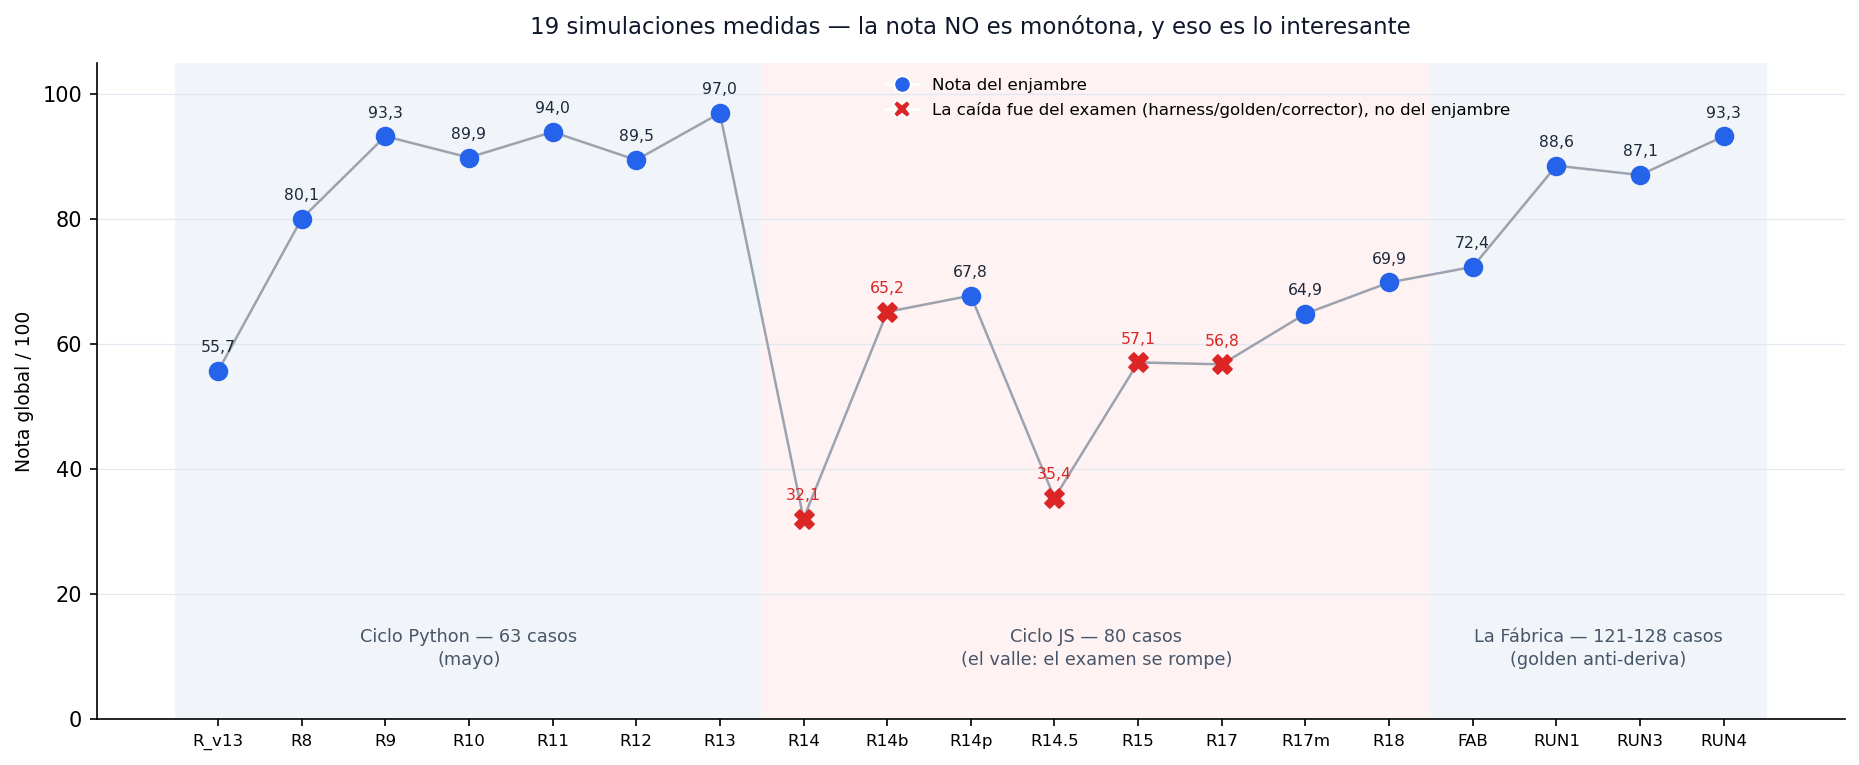
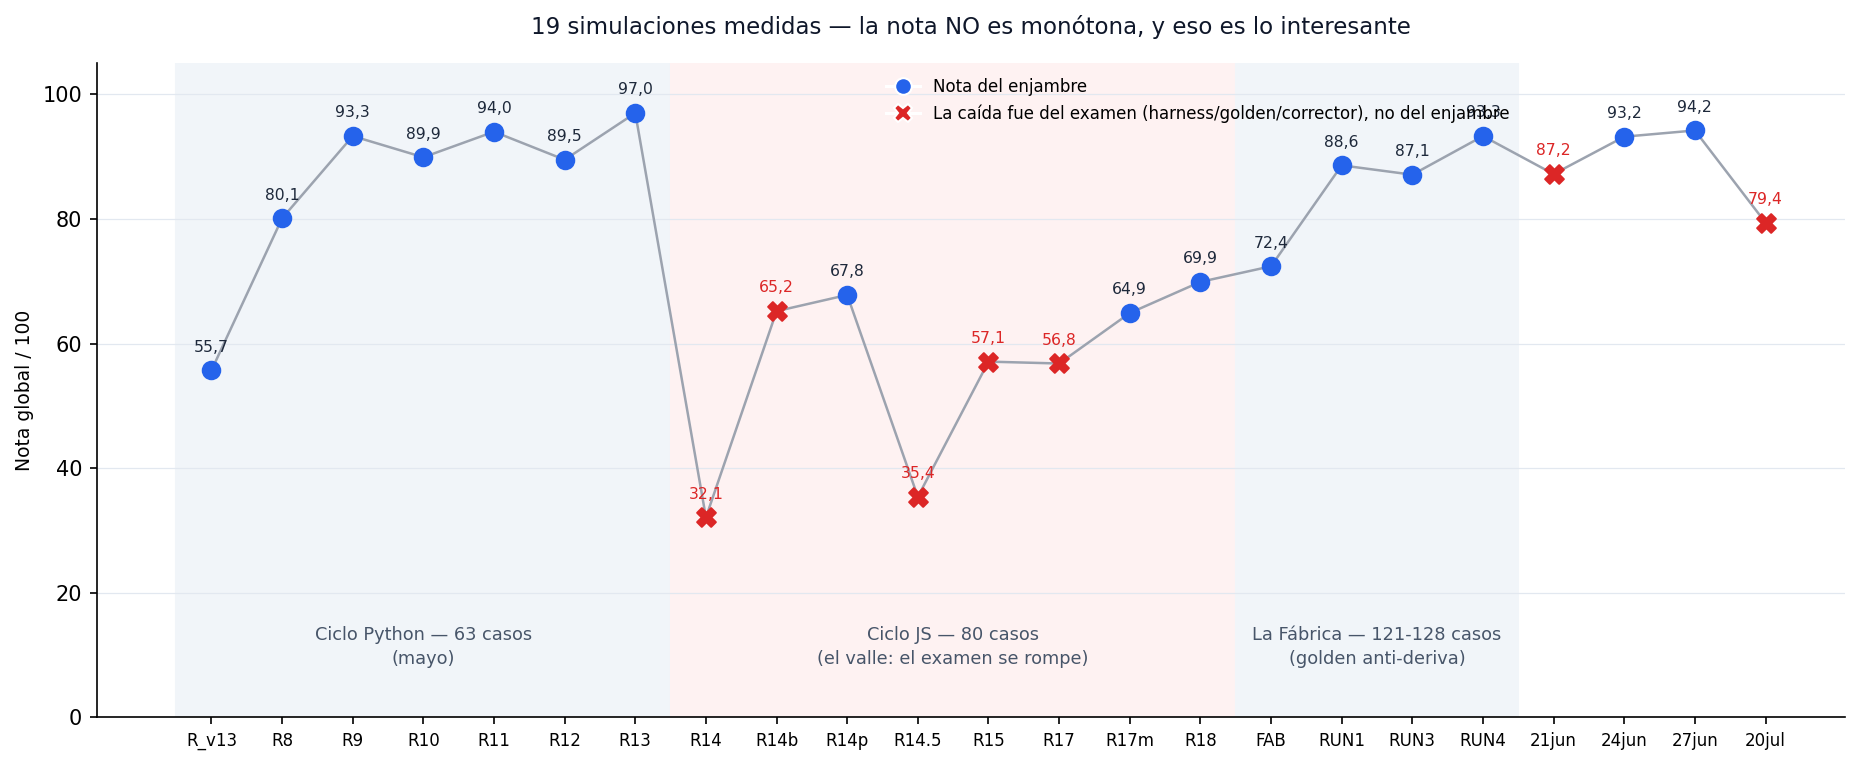
La curva llega hasta julio, y el final no es el que uno querría enseñar
Juan: "hazlo". El repo cerraba en 93,3 el 13/06 y la historia siguió. Ahora la curva llega a
julio con los cuatro puntos que faltaban, y el README cuenta lo que pasó después:

  21 jun  87,2  bajada APARENTE: el enjambre había mejorado y el examen se quedó viejo. La
                doctrina partió la cuota de SS en dos cuentas y el golden la seguía esperando
                junta. 15 de 16 fallos de asiento eran eso.
  24 jun  93,2  golden sincronizado, recuperado
  27 jun  94,2  mejor marca
  20 jul  79,4  el examen creció a 129 asientos + 10 extractos. NO comparable, y dos fallos son
                del tipo grave: contabilizo lo que debía frenar.

Las etiquetas nuevas van POR FECHA a propósito. El registro interno numera con otra serie: su
RUN3 es el RUN4 de este repo (misma corrida, freno-bien 80,5% en las dos, global re-puntuado de
93,3 a 93,7). Renumerar hacía atrás lo ya publicado sería peor que mezclar dos formas de
etiquetar, y "corregir" 93,3 por 93,7 habría sido cambiar una cifra por otra que habla de otro
objeto.

Regenerada también la muestra del golden: la publicada traía la cuota de SS junta, o sea la
doctrina ANTERIOR al 21/06. Publicar contabilidad que ya sabemos incorrecta no se sostiene.

Y una ruta local que llevaba dentro desde siempre: el script leía el banco completo desde
C:\PROYECTOS_GITHUB\TechAcces\... Mi grep improvisado no la vio. La cazó el ESCÁNER, que es la
[…]

diff --git a/_build_assets.py b/_build_assets.py
@@ -48,6 +48,16 @@ runs = [
     ("RUN1",   88.6, 2, False),
     ("RUN3",   87.1, 2, False),
     ("RUN4",   93.3, 2, False),
+    # --- AMPLIACION 21/07/2026: la historia siguio despues de que este repo se publicara ---
+    # OJO CON LAS ETIQUETAS. Los cuatro puntos de abajo vienen del registro canonico
+    # (`Manual_Preparacion_Simulaciones_Enjambre_TechAcces.md`), que numera con OTRA serie: su
+    # RUN3 es este RUN4 de aqui (misma corrida, freno-bien 80,5% en las dos, global re-puntuado
+    # de 93,3 a 93,7). Para no tener dos "RUN4" que dicen cosas distintas, los nuevos van
+    # etiquetados POR FECHA. Es feo y es honesto: renumerar el pasado publicado seria peor.
+    ("21jun",  87.2, 2, True),     # deflactada: el golden aun esperaba la SS sin partir
+    ("24jun",  93.2, 2, False),
+    ("27jun",  94.2, 2, False),    # mejor marca hasta hoy
+    ("20jul",  79.4, 2, True),     # banco AMPLIADO a 129 asientos + 10 extractos, no comparable
 ]
 
 AZUL  = "#2563eb"   # nota del enjambre
@@ -101,7 +111,16 @@ plt.savefig("assets/curva_runs.png", bbox_inches="tight")
 print("OK assets/curva_runs.png")
 
 # ── Muestra del golden (casos representativos, no el banco completo) ──
-SRC = r"C:\PROYECTOS_GITHUB\TechAcces\Fabrica_Documentos\golden_fabrica_completo.json"
+# El banco completo NO vive en este repo (es interno). La ruta se pasa por entorno para que el
+# fichero no lleve una ruta de mi maquina dentro, que es lo que caza el escaner de repos
+# publicos y lo que rompe el script para cualquier otro. Sin la variable, el script avisa y
+# deja la muestra como esta en vez de reventar: quien clone esto solo quiere la curva.
+SRC = os.environ.get("GOLDEN_FABRICA")
+if not SRC or not os.path.isfile(SRC):
+    print("AVISO: sin GOLDEN_FABRICA apuntando al banco completo, la muestra no se regenera.")
+    print("       (la curva de arriba SI se ha regenerado). Uso:")
+    print("       set GOLDEN_FABRICA=<ruta>\golden_fabrica_completo.json && python _build_assets.py")
+    raise SystemExit(0)
 g = json.load(open(SRC, encoding="utf-8"))
 ids_muestra = []
 prefijos = ["VEN-", "COM-", "NOM-", "FAC-23", "SIN-22", "SIN-25", "MKT-", "OCR-", "NEW-"]

diff --git a/README.md b/README.md
@@ -14,9 +14,9 @@ verificador independiente.
 
 ### La historia en una imagen
 
-![Curva de las 19 simulaciones](assets/curva_runs.png)
+![Curva de las simulaciones](assets/curva_runs.png)
 
-Diecinueve simulaciones medidas entre mayo y junio de 2026, sobre tres exámenes cada vez
+Veintitrés simulaciones medidas entre mayo y julio de 2026, sobre tres exámenes cada vez
 más duros. Lo que más me ha enseñado este proyecto no son los récords, son las caídas.
 
 Las tres grandes caídas de la curva (32,1 · 35,4 · 57,1) no las causó el enjambre. Las causó
@@ -73,7 +73,7 @@ nacen del mismo manifest**. El golden ya no puede desincronizarse de los datos p
 son la misma cosa. Con el banco por fin fiable, la nota volvió a medir al enjambre: 72,4 →
 88,6 → 87,1 → **93,3**.
 
-### El estado actual (cierre, 13/06/2026)
+### Dónde quedó el cierre de junio (13/06/2026)
 
 | Eje | Resultado |
 |---|---|
@@ -90,6 +90,37 @@ del modelo; están documentados caso a caso en [evidencia/](evidencia/), sin maq
 sexto, la liquidación de IVA como doble asiento, se cerró y verificó el 13/06 en un run
 acotado (4/4).
 Perseguirlos uno a uno es el bucle de rendimientos decrecientes.
+
+### Lo que pasó después, que es la parte incómoda
+
+Este repo se publicó dando el trabajo por cerrado en 93,3. La curva de arriba llega ahora hasta
+julio, y el final no es el que uno querría enseñar.
+
+| Cuándo | Nota | Qué pasó |
+|---|---|---|
+| 21 jun | 87,2 | Bajada aparente. El enjambre había mejorado y el examen se quedó viejo: la doctrina partió la cuota de Seguridad Social en dos cuentas y el golden seguía esperándola junta. Quince de los dieciséis fallos de asiento eran eso. |
+| 24 jun | 93,2 | Golden sincronizado. Recuperado. |
+| 27 jun | **94,2** | Mejor marca. Pipeline completo, con la última milla en simulacro. |
+| 20 jul | **79,4** | El examen creció a 129 asientos más 10 extractos. **No es comparable con los anteriores**, y dos de los fallos son del tipo grave: contabilizó documentos que debía haber frenado. |
+
+Tres cosas que aprender de esa tabla, y ninguna es agradable:
+
+**Una nota que baja no siempre significa que el sistema empeore.** La caída del 21 de junio fue
+del examen, no del examinado. Diagnosticarlo al revés habría llevado a "arreglar" un enjambre que
+funcionaba bien.
+
+**Y una nota que sube tampoco garantiza nada.** El 94,2 se midió sobre un banco más pequeño.
+Ampliarlo sacó fallos que estaban ahí desde antes y que ningún examen anterior tocaba.
+
+**La numeración de las corridas no es continua.** Este repo cuenta su historia con etiquetas
+propias hasta junio; los puntos posteriores van fechados porque el registro interno del proyecto
+usa otra serie, y renumerar hacia atrás lo publicado sería peor que la incomodidad de mezclar dos
+formas de etiquetar. Lo que este repo llama la corrida de 93,3 es la que el registro interno
+puntúa 93,7: misma corrida, mismo 80,5% de frenó-bien, global repuntuado.
+
+*La muestra del golden que acompaña a este repo (`eval/golden_muestra.json`) se ha regenerado con
+la doctrina vigente: la cuota de Seguridad Social va partida en dos cuentas. La versión anterior
+la traía junta, que es como se contabilizaba antes del 21 de junio.*
 
 Un detalle del cierre que resume el método: en RUN3, el validador frenó dos asientos
 alegando que sus cuentas "no existían". Un primer análisis le creyó y concluyó que faltaba